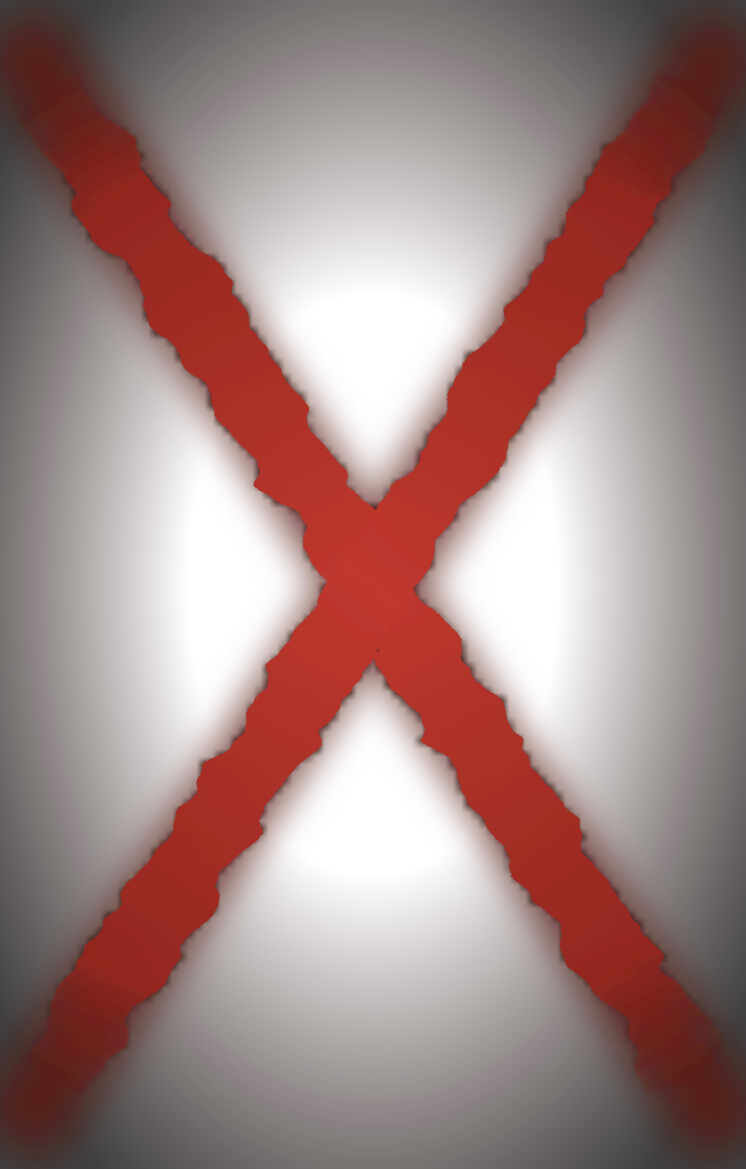
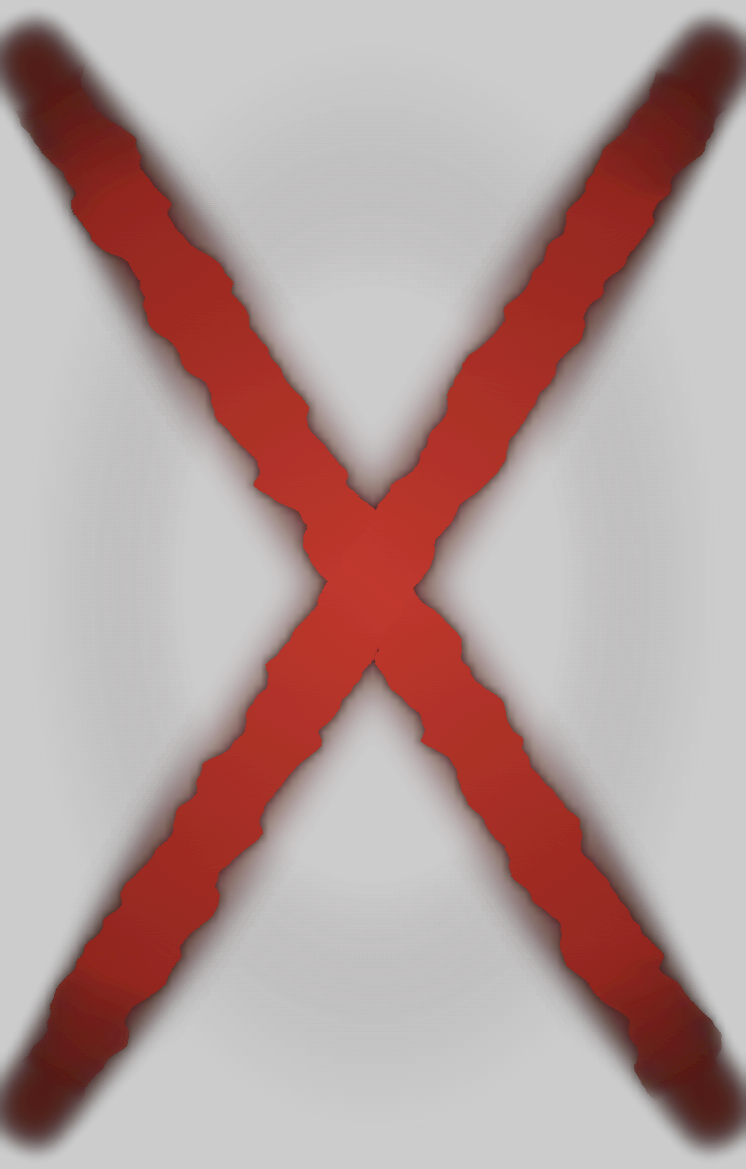
Animations, less dark

diff --git a/ColinsPatchKitCode/Patches/RandomCharacterExclusionPatch.cs b/ColinsPatchKitCode/Patches/RandomCharacterExclusionPatch.cs
@@ -72,9 +72,9 @@ public static class RandomCharacterExclusionManager
     // no run seed until the run begins, so this stands in for it (a real lobby.Seed wins if present).
     private static string? _sessionSeed;
 
-    // Red "banned" X overlaid on excluded characters. The soft dark drop shadow that lets the X read
-    // over busy portraits is baked into this image (a blurred dark halo behind the X), so no shader is
-    // needed for it.
+    // Red "banned" X overlaid on excluded characters. A soft dark drop shadow hugging the X strokes
+    // plus a uniform 20% black scrim (dimming the portrait behind the X) are baked into this image, so
+    // no shader is needed for them.
     private const string MarkName = "CpkExclusionMark";
     private const string MarkTexturePath = "res://ColinsPatchKit/assets/disabled_char.png";
     private static Texture2D? _markTexture;
@@ -93,7 +93,10 @@ void fragment() {
     y.y *= s; y.z *= s;
     y = mix(vec3(0.0), y, v);
     col.rgb = inverse(R) * y;
-    COLOR = col;
+    // Multiply by MODULATE so the node's modulate (alpha) is honored — the vanilla-style animate-out
+    // fades modulate:a to 0. The default canvas_item fragment applies modulate implicitly, but this
+    // shader overwrites COLOR, so we have to fold it back in by hand.
+    COLOR = col * MODULATE;
 }";
 
     // Overlay hsv params (mirror the tester defaults). v lifts on hover; s stays 1 (no desaturation).
@@ -106,6 +109,16 @@ void fragment() {
     // same asymmetric in/out as the portrait under it instead of popping back instantly.
     private const float OverlayUnhoverDuration = 0.5f;
     private const string OverlayTweenMeta = "CpkMarkHoverTween";
+
+    // Resting zoom: scale the mark up 10% (centered) so the X arms reach slightly farther toward the
+    // portrait edges; the ragged icon mask clips the overage. The mark sits at MarkIdleScale whenever
+    // it's shown — the animate-out fades it without touching scale.
+    private static readonly Vector2 MarkIdleScale = Vector2.One * 1.1f;
+
+    // Animate-out: a straight 100ms modulate:a fade to 0 (no scale pop), so an un-banned X fades out
+    // instead of vanishing instantly. The shader honors MODULATE so the alpha fade lands.
+    private const float MarkAnimOutDuration = 0.1f;
+    private const string MarkAnimMeta = "CpkMarkAnimTween";
 
     private static Shader? _overlayShader;
 
@@ -401,7 +414,55 @@ void fragment() {
         // Layout is settled by the time a ban can exist (the set is empty on every screen open).
         mark.Position = Vector2.Zero;
         mark.Size = icon.Size;
-        mark.Visible = show;
+        mark.PivotOffset = icon.Size / 2f; // scale (resting zoom + animate-out) pivots on the center
+
+        if (show)
+        {
+            // Snap in — vanilla animates the dismiss, not the appear. A re-ban while a previous
+            // fade-out is still running must win over it, so kill it and reset the fade/scale state.
+            KillTween(mark, MarkAnimMeta);
+            mark.Scale = MarkIdleScale;
+            mark.Modulate = Colors.White;
+            mark.Visible = true;
+            return;
+        }
+
+        // Hiding. Already gone, or a fade-out already running (let it finish) — nothing to start.
+        if (!mark.Visible || mark.HasMeta(MarkAnimMeta))
+        {
+            return;
+        }
+
+        // Fade out: a straight modulate:a fade to 0, then hide and reset modulate so the next show
+        // starts clean (scale stays at MarkIdleScale throughout). Stop the hover-v tween too so it
+        // can't keep re-driving brightness underneath the fade.
+        KillTween(mark, OverlayTweenMeta);
+        TextureRect closeMark = mark;
+        Tween anim = mark.CreateTween();
+        anim.TweenProperty(mark, "modulate:a", 0f, MarkAnimOutDuration);
+        anim.TweenCallback(Callable.From(() =>
+        {
+            if (!GodotObject.IsInstanceValid(closeMark))
+            {
+                return;
+            }
+            closeMark.Visible = false;
+            closeMark.Modulate = Colors.White;
+            closeMark.RemoveMeta(MarkAnimMeta);
+        }));
+        mark.SetMeta(MarkAnimMeta, anim);
+    }
+
+    // Kill and forget a tween parked in a node meta slot (hover-v or animate-out), if still live.
+    private static void KillTween(Node node, string metaKey)
+    {
+        if (node.HasMeta(metaKey)
+            && node.GetMeta(metaKey).As<Tween>() is { } running
+            && GodotObject.IsInstanceValid(running))
+        {
+            running.Kill();
+        }
+        node.RemoveMeta(metaKey);
     }
 
     // Lift the mark's brightness on the focused/hovered button (and drop it back on unfocus), so the
@@ -418,13 +479,7 @@ void fragment() {
         }
 
         // Always kill the in-flight hover tween first, so a quick re-hover doesn't fight a fade-out.
-        if (mark.HasMeta(OverlayTweenMeta)
-            && mark.GetMeta(OverlayTweenMeta).As<Tween>() is { } running
-            && GodotObject.IsInstanceValid(running))
-        {
-            running.Kill();
-        }
-        mark.RemoveMeta(OverlayTweenMeta);
+        KillTween(mark, OverlayTweenMeta);
 
         if (focused)
         {
